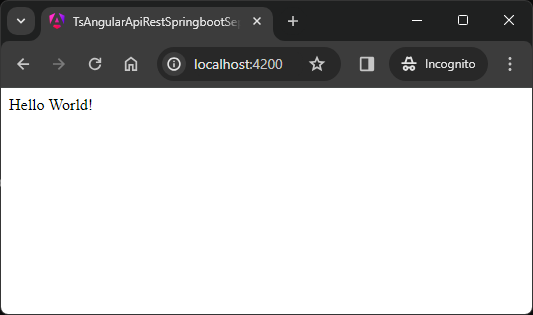
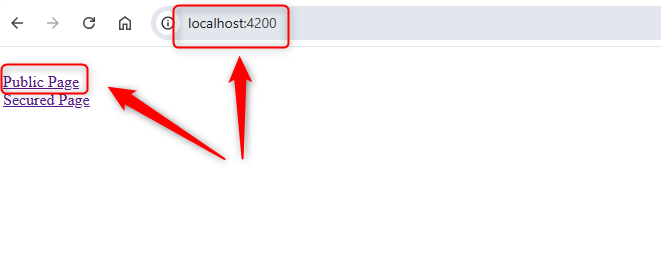
Update Readme file

diff --git a/others/security/keycloak/spa/angular-springboot-spa-security-keycloak/Readme.md b/others/security/keycloak/spa/angular-springboot-spa-security-keycloak/Readme.md
@@ -3,12 +3,26 @@ EXAMPLE
 
 ![My Image](readme-images/image-01.png)
 
+![My Image](readme-images/image-02.png)
+
+![My Image](readme-images/image-03.png)
+
+![My Image](readme-images/image-04.png)
+
+![My Image](readme-images/image-05.png)
+
+![My Image](readme-images/image-06.png)
+
+![My Image](readme-images/image-07.png)
+
+![My Image](readme-images/image-08.png)
+
 
 DESCRIPTION
 -----------
 
 ##### Goal
-The goal of this project is to present how to connect **front-end** application - basing on **Typescript and Angular** framework - with **back-end** application - basing on **Java and Spring Boot** framework. Connection is done by using **API REST**. 
+The goal of this project is to present how to secure using **Keycloak** a **front-end** application - basing on **Typescript and Angular** framework - and **back-end** application - basing on **Java and Spring Boot** framework.
 
 ##### Elements
 This project consists of following elements:
@@ -16,6 +30,7 @@ This project consists of following elements:
    * Message "Hello World!" 
 * **FE**: Angular application which displays:
    * Message "Hello World!" from BE application
+* **Keycloak**: tool for securing applications
 
 ##### Terminology
 Terminology explanation:
@@ -26,6 +41,7 @@ Terminology explanation:
 * **Git**: tool for distributed version control
 * **Typescript**: it's superset of Javascript. It means that it contains everything like Javascript plus it's strongly typed, it provides OOPS elements etc. 
 * **Angular**: it's component-based framework for building structured single page applications on client side. 
+* **Keycloak**: it is an open-source identity and access management solution that provides authentication, authorization, and single sign-on (SSO) capabilities for applications and services. It supports various authentication protocols like OAuth 2.0, OpenID Connect, and SAML.
 
 
 USAGES
@@ -34,13 +50,6 @@ USAGES
 This project can be tested in following configurations:
 * **Usage Docker Compose**: all services are started as Docker containers definied in docker compose file.
 * **Usage Kubernetes (Kind)**: all services are started as Kubernetes pods.
-
-
-USAGE MANUAL
-------------
-1. In a first command line tool **start Docker containers** with `docker-compose up -d --build`
-1. In a second command line tool start back-end application with `cd .\angular-springboot-spa-security-keycloak-be\ | mvn spring-boot:run`
-1. In a third command line tool start front-end application with `cd .\angular-springboot-spa-security-keycloak-fe\ | npm start`
 
 
 USAGE DOCKER COMPOSE
@@ -58,8 +67,10 @@ USAGE DOCKER COMPOSE
 ##### Required steps:
 1. Start **Docker** tool
 1. In a command line tool **start Docker containers** with `docker-compose up -d --build`
+   * Wait **few minutes** when Keycloak is loaded
 1. In any Internet Browser (e.g. Chrome) visit **Fe** application with `http://localhost:4200`
-   * Expected **Hello World!** message
+   * **Public Page**: expected not secured API call to Be and result **Hello World, Public!**
+   * **Secured Page**: expected secured API call to Be and result **Hello World, Secured!**
 1. Clean up environment 
      * In a command line tool **remove Docker containers** with `docker-compose down --rmi all`
      * Stop **Docker** tool
